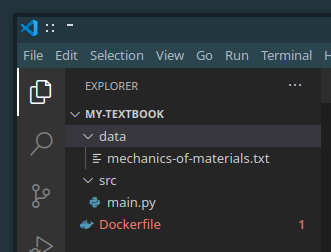
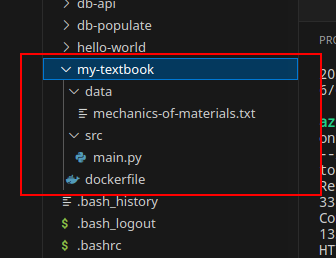
Part 2 update

diff --git a/content/02-building-containers.md b/content/02-building-containers.md
@@ -9,17 +9,27 @@ Running docker containers in itself is a useful skill and you can do a lot with 
 
 Images are defined through a **Dockerfile**, a little script that instructs Docker which files to copy into the container and what the entrypoint command is to be executed once the container is eventually run. Once we write our Dockerfile, we'll issue a terminal command that reads it in and actually builds the container image. Once *that's* done, we'll be able to run the container like we did in the previous section.
 
-To get started, create a folder somewhere on your computer called `hello-world`. We'll be storing source code for our container image there. Next, open it in VSCode through the Explorer sidebar tab's "Open Folder" button:
+To get started, create a project folder for our work called `hello-world` with the following command:
 
-![open_folder](../img/open_folder.png)
+```bash
+mkdir hello-world
+```
 
-If you already had a folder or project open, you may need to close it by navigating to `File menu -> Close Folder`.
+We'll be storing source code for our container image there. Next, move into it with this command:
 
-VSCode may ask if you trust the authors of the files in this folder. Since we created it, we certainly do! Just click 'Yes'. Don't worry about it if this dialog gets skipped entirely, though.
+```bash
+cd hello-world
+```
 
-![trust](../img/trust.png)
+From here, create a new file called `Dockerfile` and open it for editing in VSCode. You can do that with the following command:
 
-Once you've opened the `hello-world` folder, create a new file (`File menu -> New File` or `Ctrl+N`) and fill it with the following contents:
+```bash 
+code dockerfile
+```
+
+(In general, you can open existing files or create new ones with the commands of the form `code [filename]`)
+
+Fill the `dockerfile` with the following contents:
 
 ```dockerfile
 # My first Dockerfile
@@ -170,7 +180,13 @@ Gosh! Let's call attention to the place where our two `echo` messages showed up.
 
 This is a really important concept:
 
+{{% aside %}}
+🙀🙀🙀
+
 **RUN commands happen at "build time", while the ENTRYPOINT command happens at "run time"**
+
+🙀🙀🙀
+{{% /aside %}}
 
 In practice, this means the `RUN` commands only happen once when you build the container image, and then the `ENTRYPOINT` will happen every time any user out there in the wide world runs the image. This division of build time and run time is useful because it allows us to issue terminal commands that install software once at build time, and then never have to worry about them again.
 
@@ -184,10 +200,18 @@ The Dockerfile is the instruction manual telling you how to assemble the tank. A
 
 Let's start work on our textbook-writer image. Create a new folder on your computer somewhere other than within `hello-world`. Call the new folder `my-textbook`. Open the folder in VS Code, create a new empty file, and save it in the directory as `Dockerfile`. 
 
-Then, download the source code and data for the textbook writer here and unzip it to the same location as the Dockerfile:
+Then, download the source code and data for the textbook writer here and unzip it to the same location as the Dockerfile using these commands:
 
-[https://drive.google.com/file/d/1tXHQtgXaId9oizIN3aw1ACgHxqLurXkA/view?usp=sharing](https://drive.google.com/file/d/1tXHQtgXaId9oizIN3aw1ACgHxqLurXkA/view?usp=sharing
-)
+```bash
+wget -P src https://raw.githubusercontent.com/naclomi/containers-tutorial/main/markov-example/src/main.py
+wget -P data https://raw.githubusercontent.com/naclomi/containers-tutorial/main/markov-example/data/mechanics-of-materials.txt
+```
+
+Then, make an empty dockerfile with the command:
+
+```bash
+touch dockerfile
+```
 
 At this point, your project directory should have the following structure:
 
@@ -247,7 +271,9 @@ What's going on here?
 
 A quick google for "markovify" turns up this:
 
-[https://pypi.org/project/markovify/](https://pypi.org/project/markovify/)
+{{% aside %}}
+🔗 [https://pypi.org/project/markovify/](https://pypi.org/project/markovify/)
+{{% /aside %}}
 
 It looks like "markovify" is a Python library used for generating gibberish text. Our script **depends** on this library! Thank you for your beautiful work library authors!
 
@@ -322,9 +348,8 @@ Muuuuuch better. Our command line flag asking for only one sentence now successf
 
 We can actually specify default flags to be passed to the entrypoint, that disappear if the user specifies their own when they run the container. To do that, we use the **CMD** command:
 
-```dockerfile
-CMD ["flag1", "flag2", ...]
-```
+
+`CMD ["flag1", "flag2", ...]`
 
 At run-time, the `CMD` command will glue whatever flags you specify in its list to the end of the list of flags used by `ENTRYPOINT` unless the user specifies their own command-line flags, in which case it will do nothing. Similar to `ENTRYPOINT`, only the last `CMD` in your Dockerfile will actually take effect. And similar to user-supplied command line flags, `ENTRYPOINT` has to be in exec form for `CMD` to do anything.
 
@@ -357,5 +382,5 @@ If you try generating a PDF as you did in the "Running containers" portion of th
 
 To install them, you'll need to add a command to the right place in your Dockerfile that uses the Linux package manager `apt-get` . See if you can get it working.
 
-*Hint: the first thing you'll have to do is run the command `apt-get update`* 
+*🤫 Hint: the first thing you'll have to do is run the command `apt-get update`* 
 

diff --git a/content/01-running-containers.md b/content/01-running-containers.md
@@ -64,6 +64,10 @@ You should see some numbers get printed to the terminal, like this:
 
 ![](../img/docker-version.png)
 
+Finally, reboot your VM by opening its dashboard in the Azure web portal and hitting the `Restart` button:
+
+![](../img/vm-reboot.png)
+
 ## Pulling our first image
 
 Now that everything has been set up, let's run a container! Run the following command:
